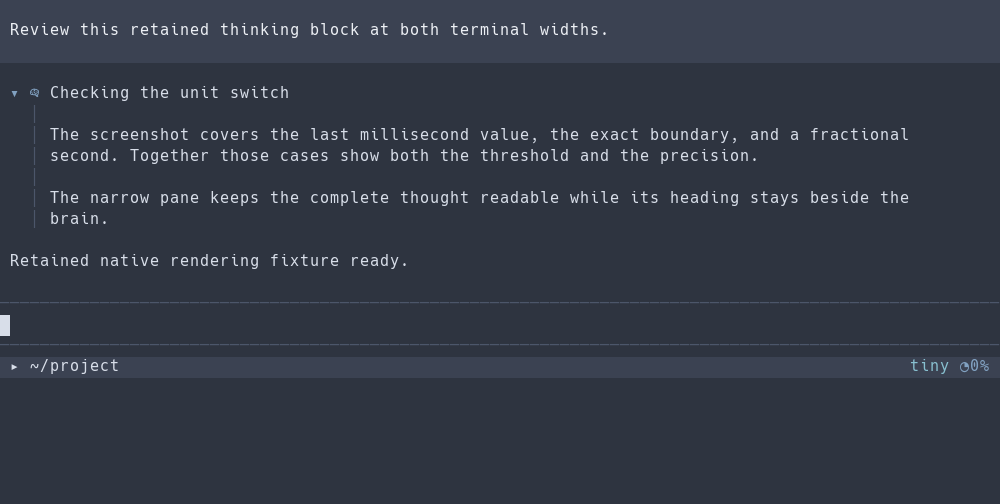
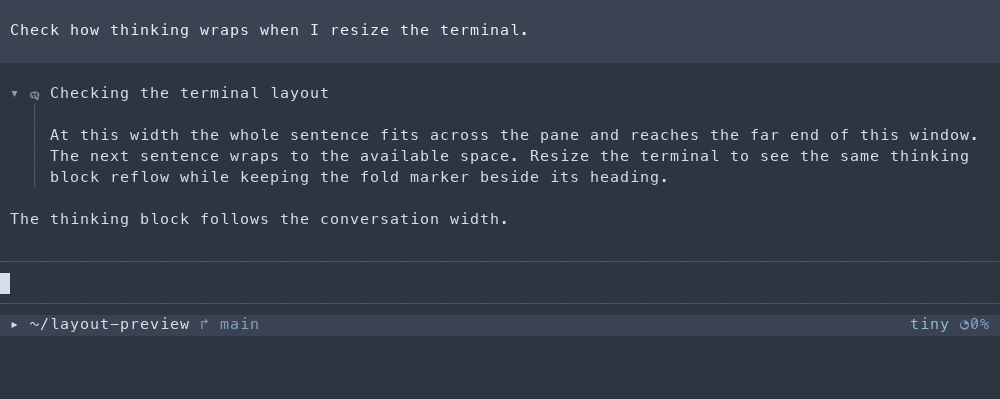
fix(transcript): use available width for thinking blocks (#54)
## What changed and why

Remove the 88-column cap on expanded thinking so Markdown wraps to the
available conversation width after accounting for padding and the fold
marker. Long thoughts now use the space available in wide panes and
reflow when the terminal narrows.

![Expanded thinking reaching the right padding in a 100-column Studio
terminal](https://raw.githubusercontent.com/lanej/studio/e8b2b67206f7cf95a9c6b9337b6fc4aa1488ee0a/docs/assets/thinking-header-100.png)

![The same thinking block reflowed after resizing the Studio terminal to
60
columns](https://raw.githubusercontent.com/lanej/studio/e8b2b67206f7cf95a9c6b9337b6fc4aa1488ee0a/docs/assets/thinking-header-60.png)

## Verification

`bun run check` and `bun run test:socrates-ui` passed. A retained
transcript replay in native Pi verified that the thinking text extends
past the former cap at 100 columns and survives resizing to 60 columns.

<!-- octo-submission:aa4b3f45-380b-4840-8a52-d14a72f4f7fa -->

diff --git a/tests/thinking-display.test.ts b/tests/thinking-display.test.ts
@@ -87,7 +87,10 @@ await test("expanded thinking preserves Markdown and reflows independently of th
         .join(" "),
       prose,
     );
-    assert.ok(body.every((line) => visibleWidth(line) <= Math.min(width, 93)));
+    assert.ok(lines.every((line) => visibleWidth(line) <= width));
+    if (width === 160) {
+      assert.ok(body.some((line) => visibleWidth(line.trimEnd()) > 100));
+    }
     assert.ok(lines.every((line) => !line.includes("\u001b[3m")));
     assert.ok(plain.some((line) => line.trim() === "The answer follows."));
   }
@@ -97,7 +100,7 @@ await test("expanded thinking preserves Markdown and reflows independently of th
   assert.ok(!folded.join("").includes("Inspecting"));
   assert.deepEqual(
     transformed,
-    [88, 28].map((width) => ({
+    [154, 28].map((width) => ({
       markdown: `**Inspecting the screenshot**\n\n${prose}`,
       width,
       streaming: true,

diff --git a/README.md b/README.md
@@ -53,7 +53,7 @@ The footer shows the current directory using [shortpath](https://github.com/lane
 
 Pi labels reads of `SKILL.md` as skills. Expand one with `Ctrl+O` to read its headings, lists, links, and code as Markdown. The compact skill header and error, ranged, or truncated read output retain Pi’s normal presentation.
 
-In Studio’s terminal, inline tool images use their native pixel size when they fit. Press `Ctrl+O` to expand tool output and magnify smaller images to fit the pane. To use a fixed width, open `/settings` and change **Image width** from **auto** to a column count. A monochrome Nerd Font brain icon shares the first rendered line of each thinking block. Expanded prose wraps at 88 columns in wide panes. Click a block to fold it individually, or press `Ctrl+T` to toggle thinking across the conversation.
+In Studio’s terminal, inline tool images use their native pixel size when they fit. Press `Ctrl+O` to expand tool output and magnify smaller images to fit the pane. To use a fixed width, open `/settings` and change **Image width** from **auto** to a column count. A monochrome Nerd Font brain icon shares the first rendered line of each thinking block. Expanded thinking uses the full available conversation width. Click a block to fold it individually, or press `Ctrl+T` to toggle thinking across the conversation.
 
 Run `studio config --example` to see a full JSON configuration example. Studio reads `${XDG_CONFIG_HOME:-~/.config}/studio/config.toml` first and falls back to `config.json` when TOML is absent. Set `STUDIO_CONFIG` to select an explicit TOML or JSON file. If you already use JSON and switch to TOML, carry your existing settings over to the TOML file; Studio reads one file. Without a default configuration file, Studio uses its built-in defaults; a missing explicitly selected file is an error. Configuration inspection and `studio skill` need no services or credentials.
 

diff --git a/EXTRACTION.md b/EXTRACTION.md
@@ -20,4 +20,4 @@ Studio applies [a layout patch](patches/pi-tui-right-column.patch) to its instal
 
 Studio applies a [coding-agent patch](patches/pi-coding-agent-1.6.0.patch) to the pinned Pi 1.6.0 interactive host. The native editor handles guidance and queueing while the assignment option disables shell commands, external editor and session navigation at their entry points. The controller starts the worker turn and retains its result. Pi drops guidance if its turn settles during input preflight. When upgrading Pi, inspect new built-in command and shortcut paths and run the `assignment-input` and `interactive-dispatch` native cases.
 
-The coding-agent patch also fits inline images to their source size and pane by default, retains an explicit terminal-cell width setting, and renders expanded thinking as upright Markdown within 88 columns. It composes those presentation changes with the assignment input restrictions in one package patch. When upgrading Pi, run the inline-image and thinking-display tests as well as native assignment-input and Socrates UI acceptance.
+The coding-agent patch also fits inline images to their source size and pane by default, retains an explicit terminal-cell width setting, and renders expanded thinking as upright Markdown across the available conversation width. It composes those presentation changes with the assignment input restrictions in one package patch. When upgrading Pi, run the inline-image and thinking-display tests as well as native assignment-input and Socrates UI acceptance.
